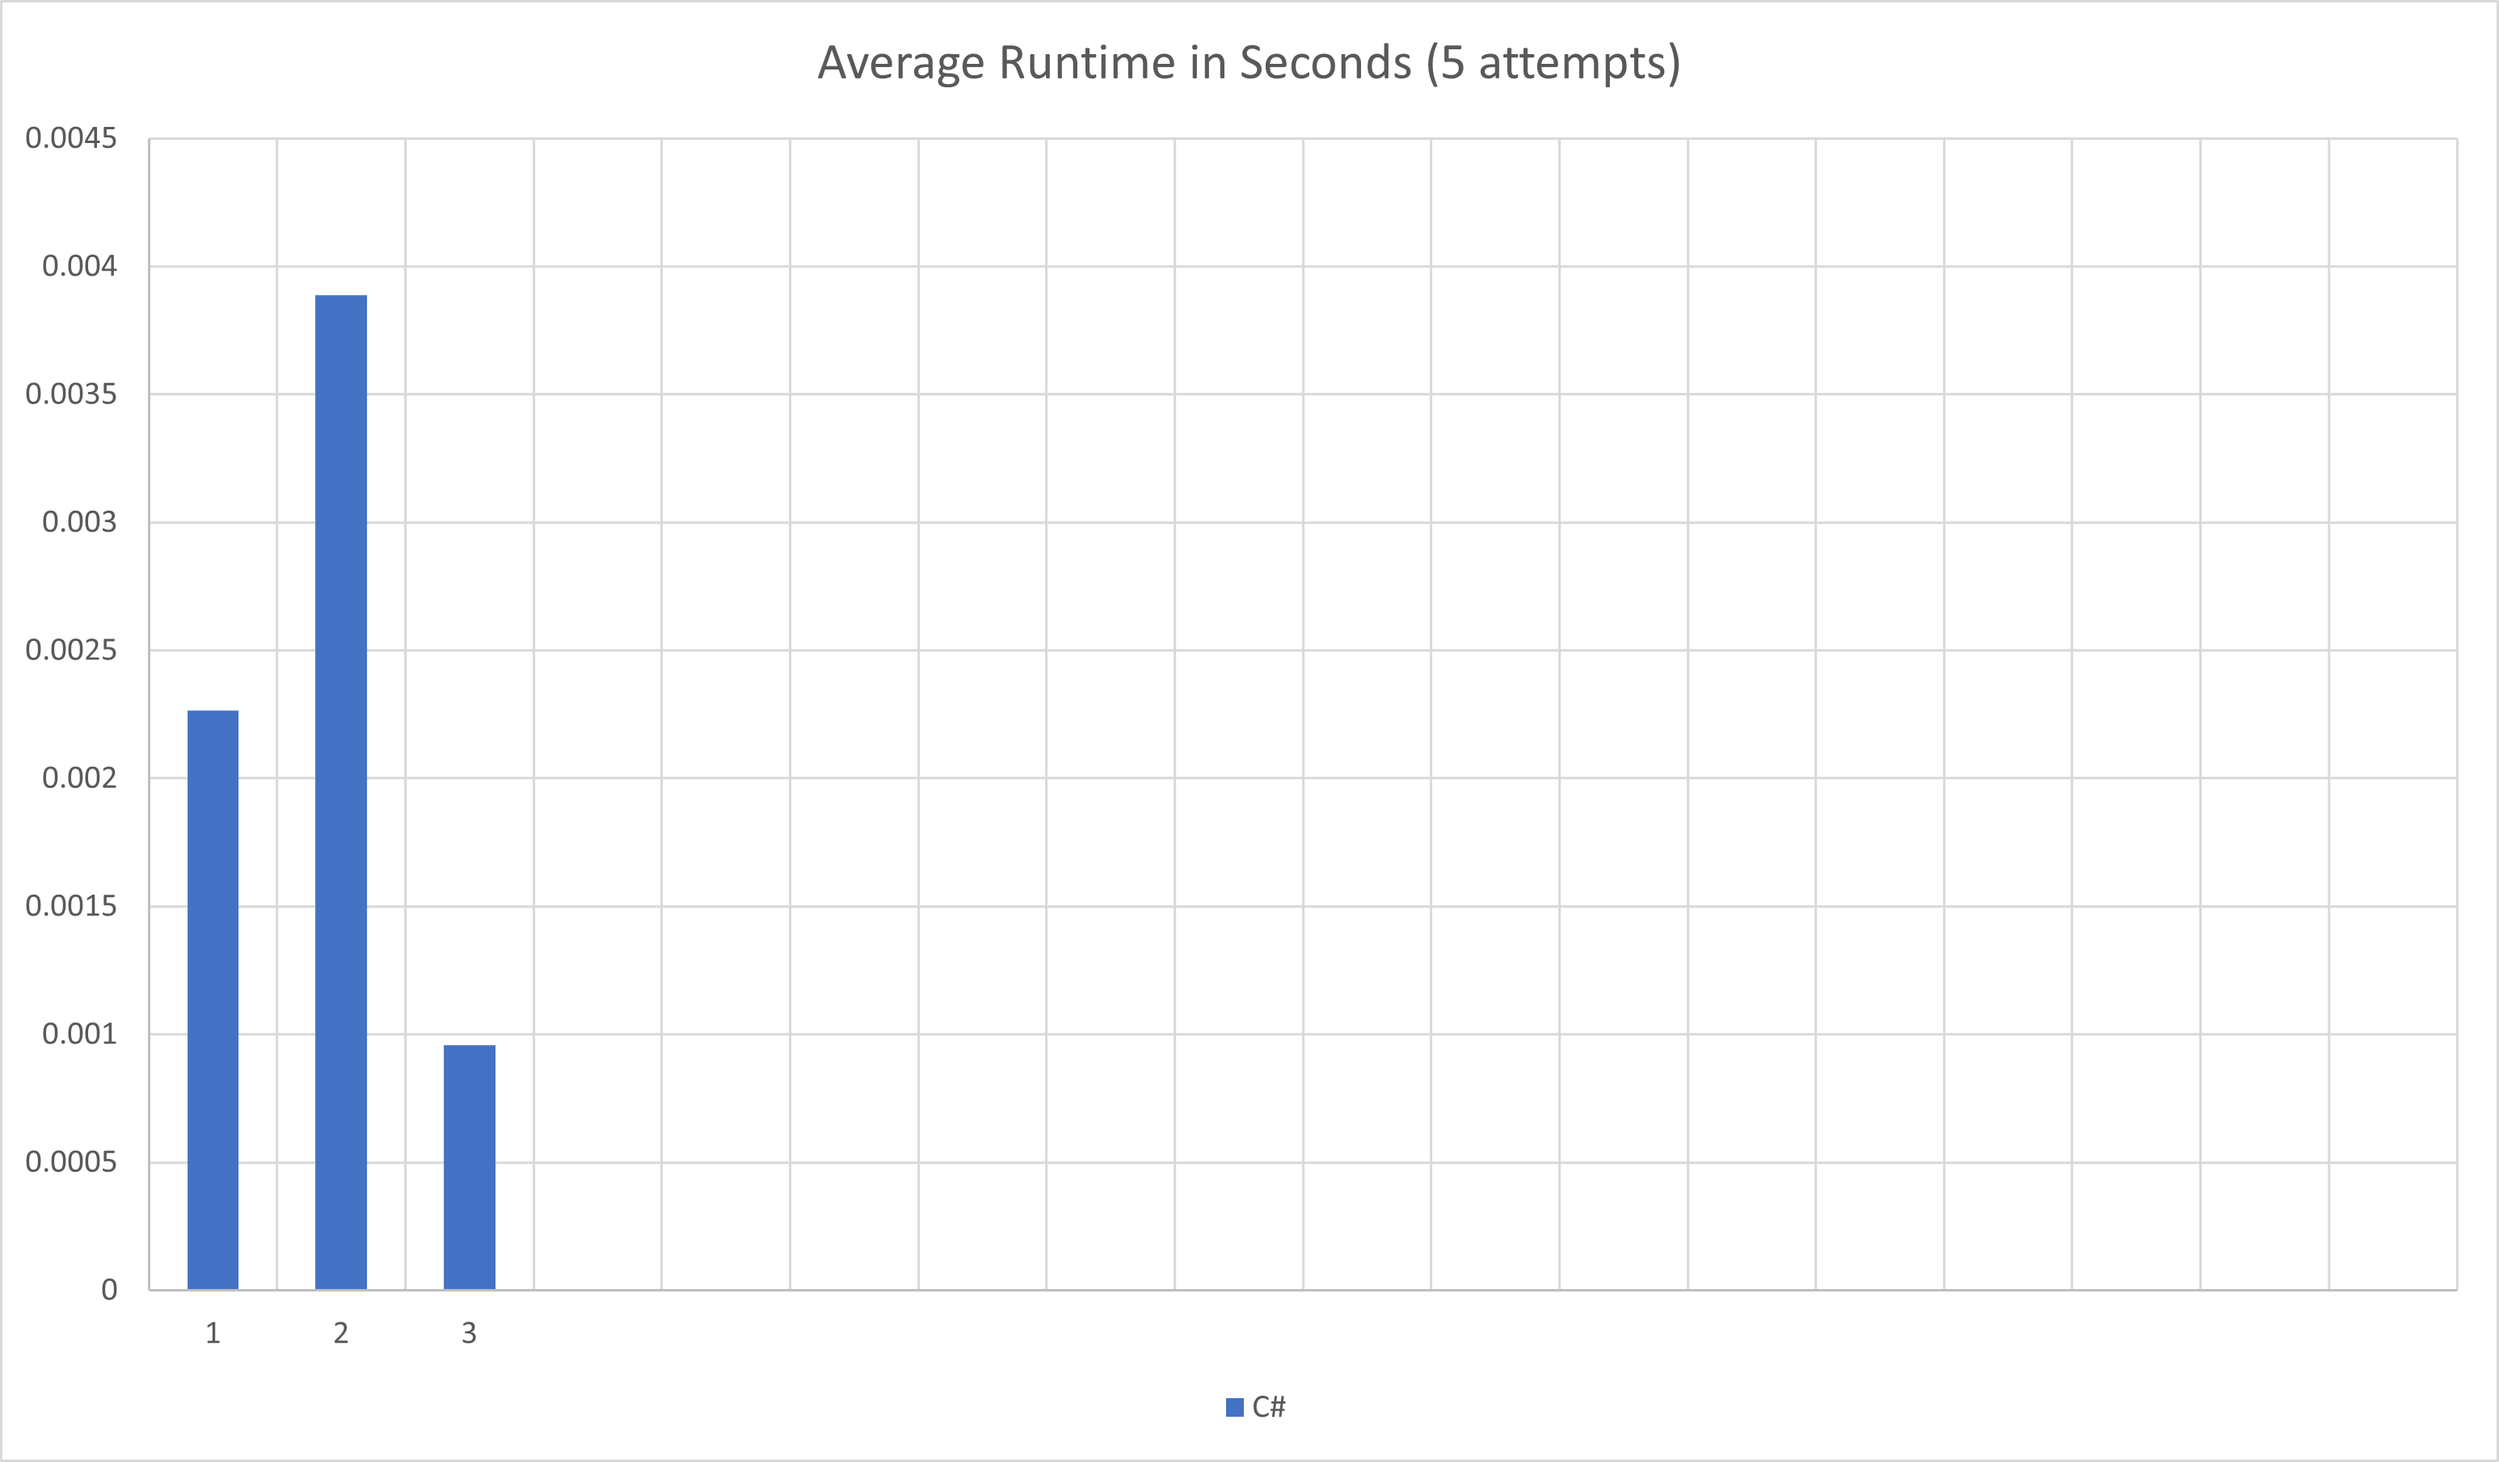
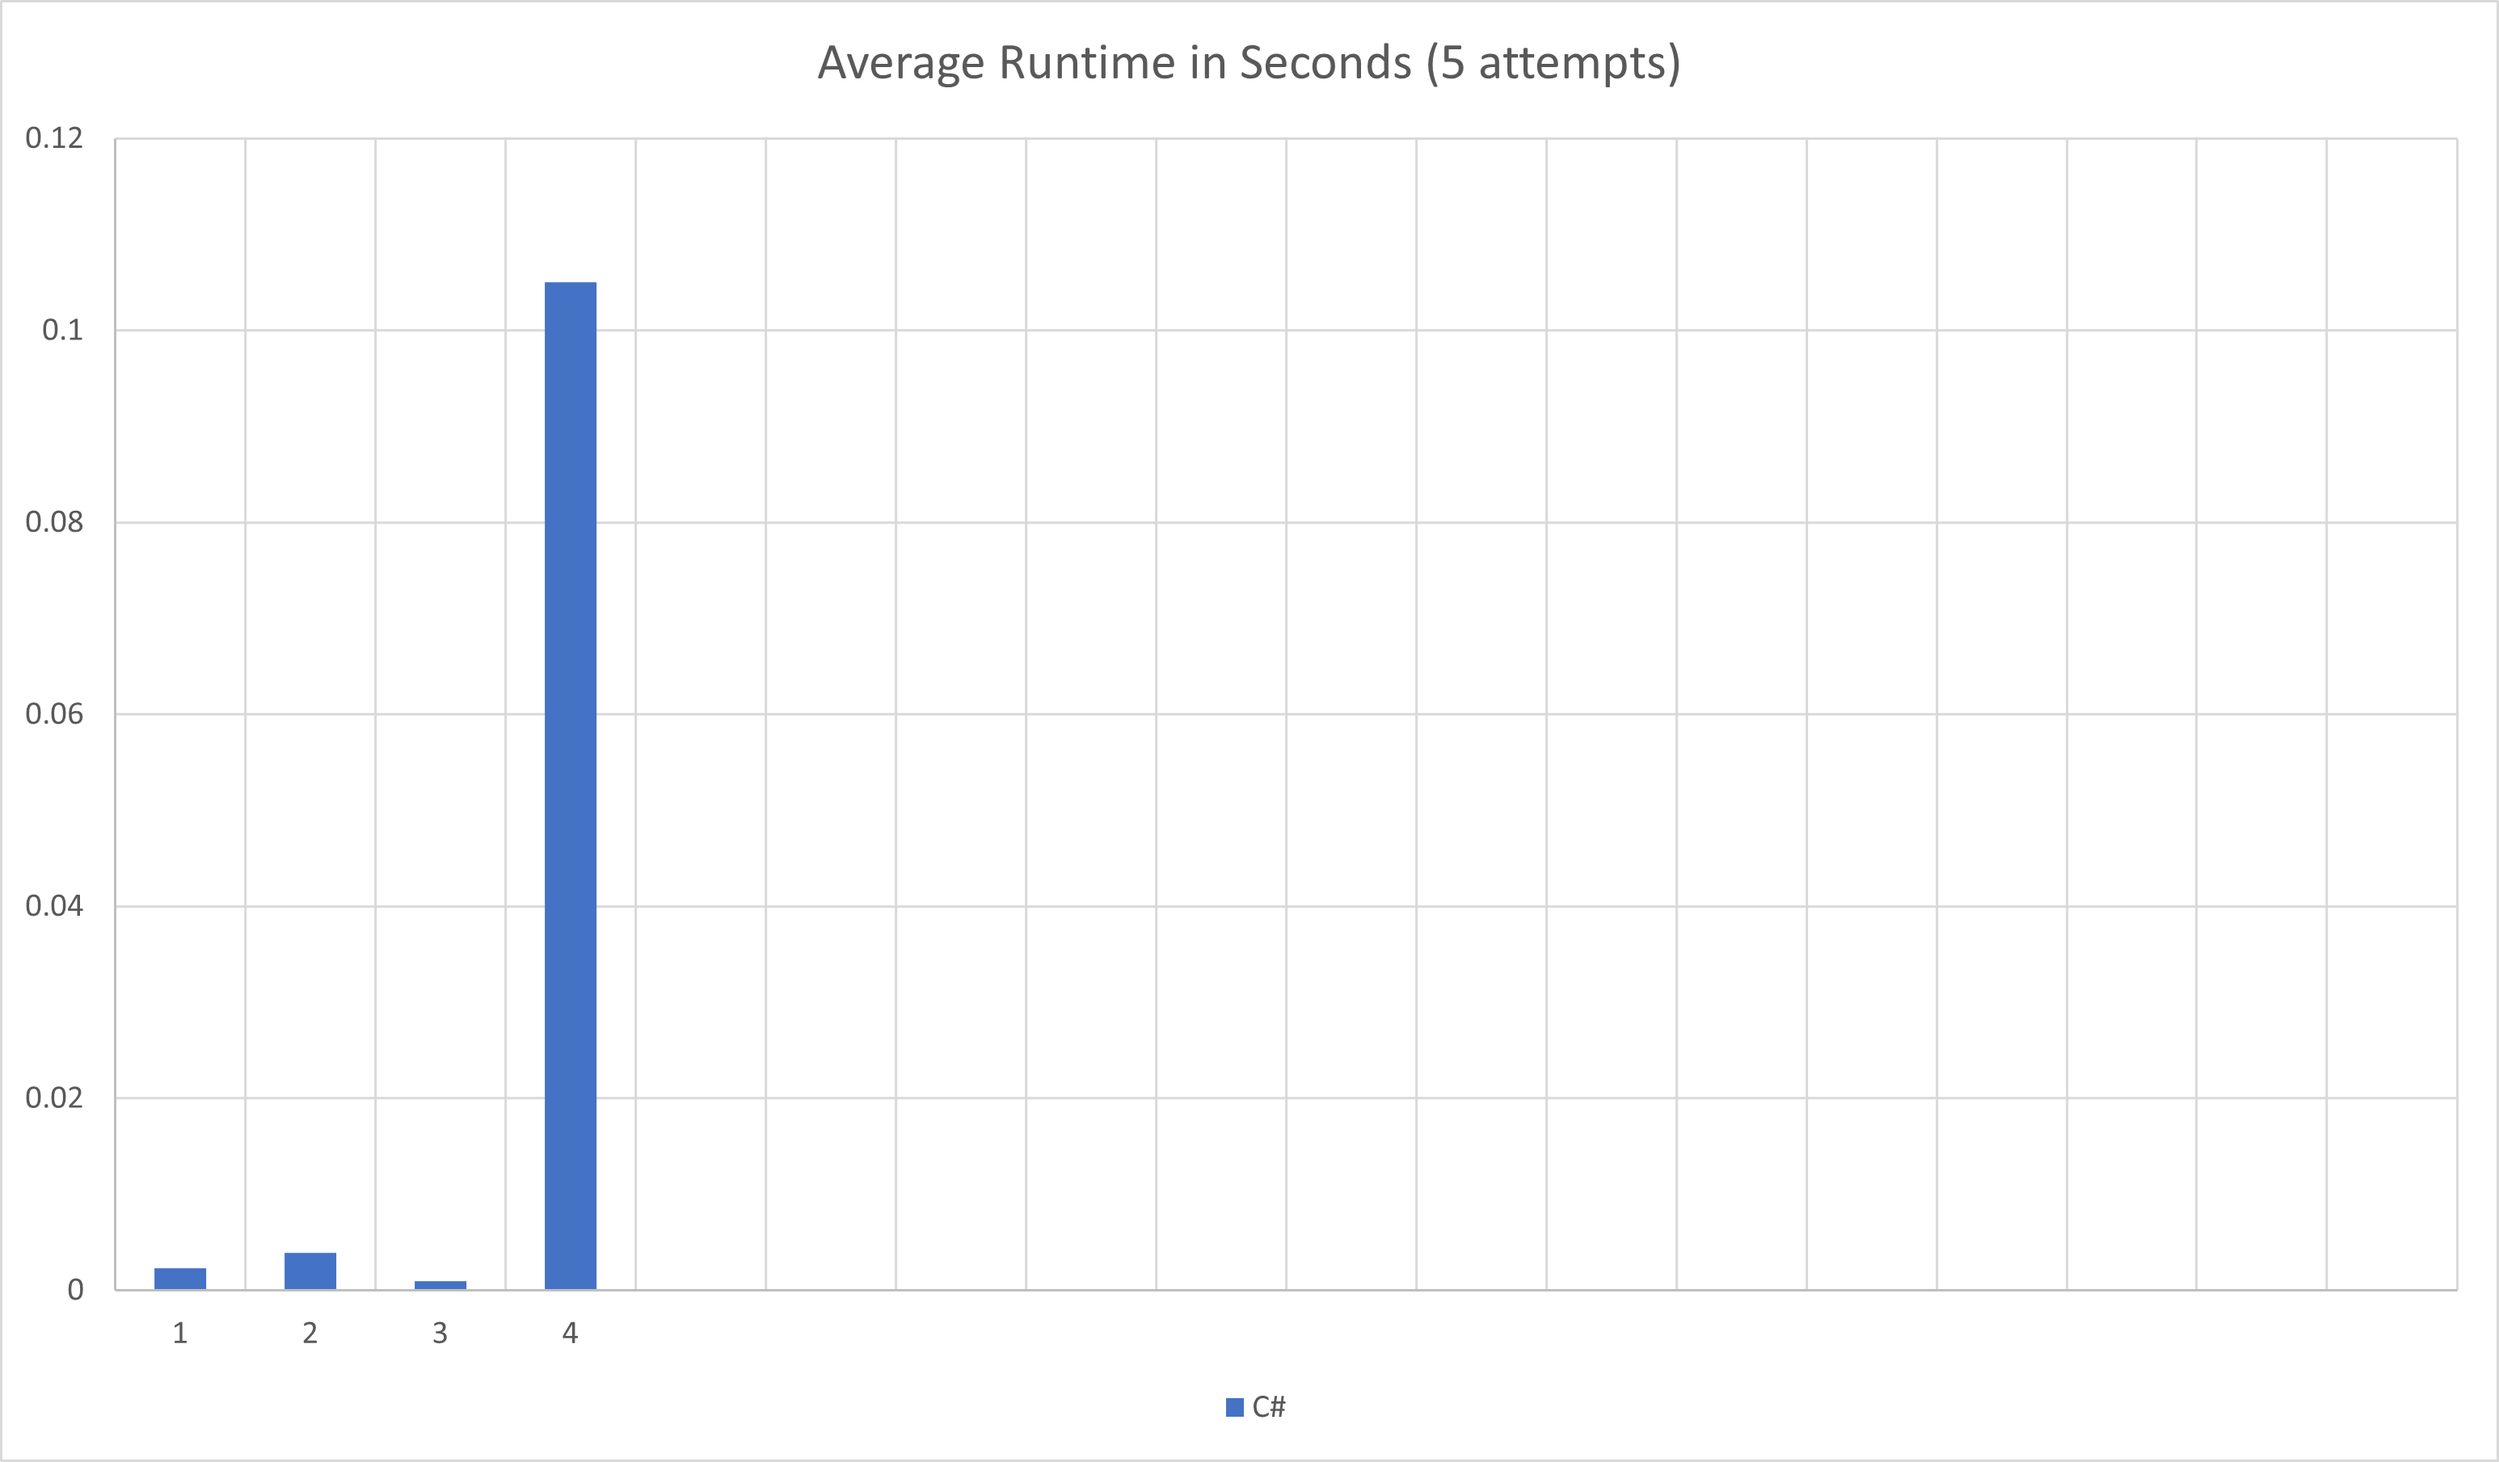
Solve 2025, day 4

diff --git a/2025/csharp/AdventOfCode2025/Solvers/Day04Solver.cs b/2025/csharp/AdventOfCode2025/Solvers/Day04Solver.cs
@@ -1,0 +1,62 @@
+using System;
+using System.Collections.Generic;
+using System.Linq;
+using AdventOfCode2025.Grid;
+
+namespace AdventOfCode2025.Solvers;
+
+internal class Day04Solver : ISolver
+{
+    private const string Name = "Day 4";
+    private const string InputFile = "day04input.txt";
+
+    public void Solve()
+    {
+        Console.WriteLine(Name);
+        var lines = Input.GetLinesFromFile(InputFile)
+            .ToList();
+
+        Console.WriteLine($"Output (part 1): {GetPart1Answer(lines)}");
+        Console.WriteLine($"Output (part 2): {GetPart2Answer(lines)}");
+    }
+
+    private static long GetPart1Answer(List<string> rows)
+    {
+        var grid = SparseGrid<char>.Parse(rows, c => c);
+        return grid.GetAllCells()
+            .Where(pair => pair.Value == '@')
+            .Count(pair => HasFewerThanFourAdjacentRolls(pair.Coordinates, grid));
+    }
+
+    private static bool HasFewerThanFourAdjacentRolls(Point2D point, SparseGrid<char> grid)
+    {
+        return point
+            .GetNeighbors8()
+            .Count(neighbor => grid.GetCell(neighbor) == '@') < 4;
+    }
+
+    private static long GetPart2Answer(List<string> rows)
+    {
+        var sum = 0L;
+        var grid = SparseGrid<char>.Parse(rows, c => c);
+        var checkAgain = true;
+        while (checkAgain)
+        {
+            var removableRolls = grid.GetAllCells()
+                .Where(pair => pair.Value == '@' && HasFewerThanFourAdjacentRolls(pair.Coordinates, grid))
+                .ToList();
+
+            removableRolls.ForEach(roll => grid.SetCell(roll.Coordinates, '.'));
+
+            var removableCount = removableRolls.Count;
+
+            sum += removableCount;
+
+            if (removableCount == 0)
+            {
+                checkAgain = false;
+            }
+        }
+        return sum;
+    }
+}

diff --git a/2025/csharp/AdventOfCode2025/Grid/Point2D.cs b/2025/csharp/AdventOfCode2025/Grid/Point2D.cs
@@ -23,6 +23,21 @@ namespace AdventOfCode2025.Grid
             };
         }
 
+        public IEnumerable<Point2D> GetNeighbors8()
+        {
+            return new[]
+            {
+                new Point2D(X - 1, Y - 1),
+                new Point2D(X, Y - 1),
+                new Point2D(X + 1, Y - 1),
+                new Point2D(X + 1, Y),
+                new Point2D(X + 1, Y + 1),
+                new Point2D(X, Y + 1),
+                new Point2D(X - 1, Y),
+                new Point2D(X - 1, Y + 1),
+            };
+        }
+
         public Point2D GetNorthNeighbor()
         {
             return new(X, Y - 1);

diff --git a/2025/csharp/AdventOfCode2025/Program.cs b/2025/csharp/AdventOfCode2025/Program.cs
@@ -13,6 +13,7 @@ public static class Program
         new Day01Solver(),
         new Day02Solver(),
         new Day03Solver(),
+        new Day04Solver(),
     };
 
     public static void Main()
